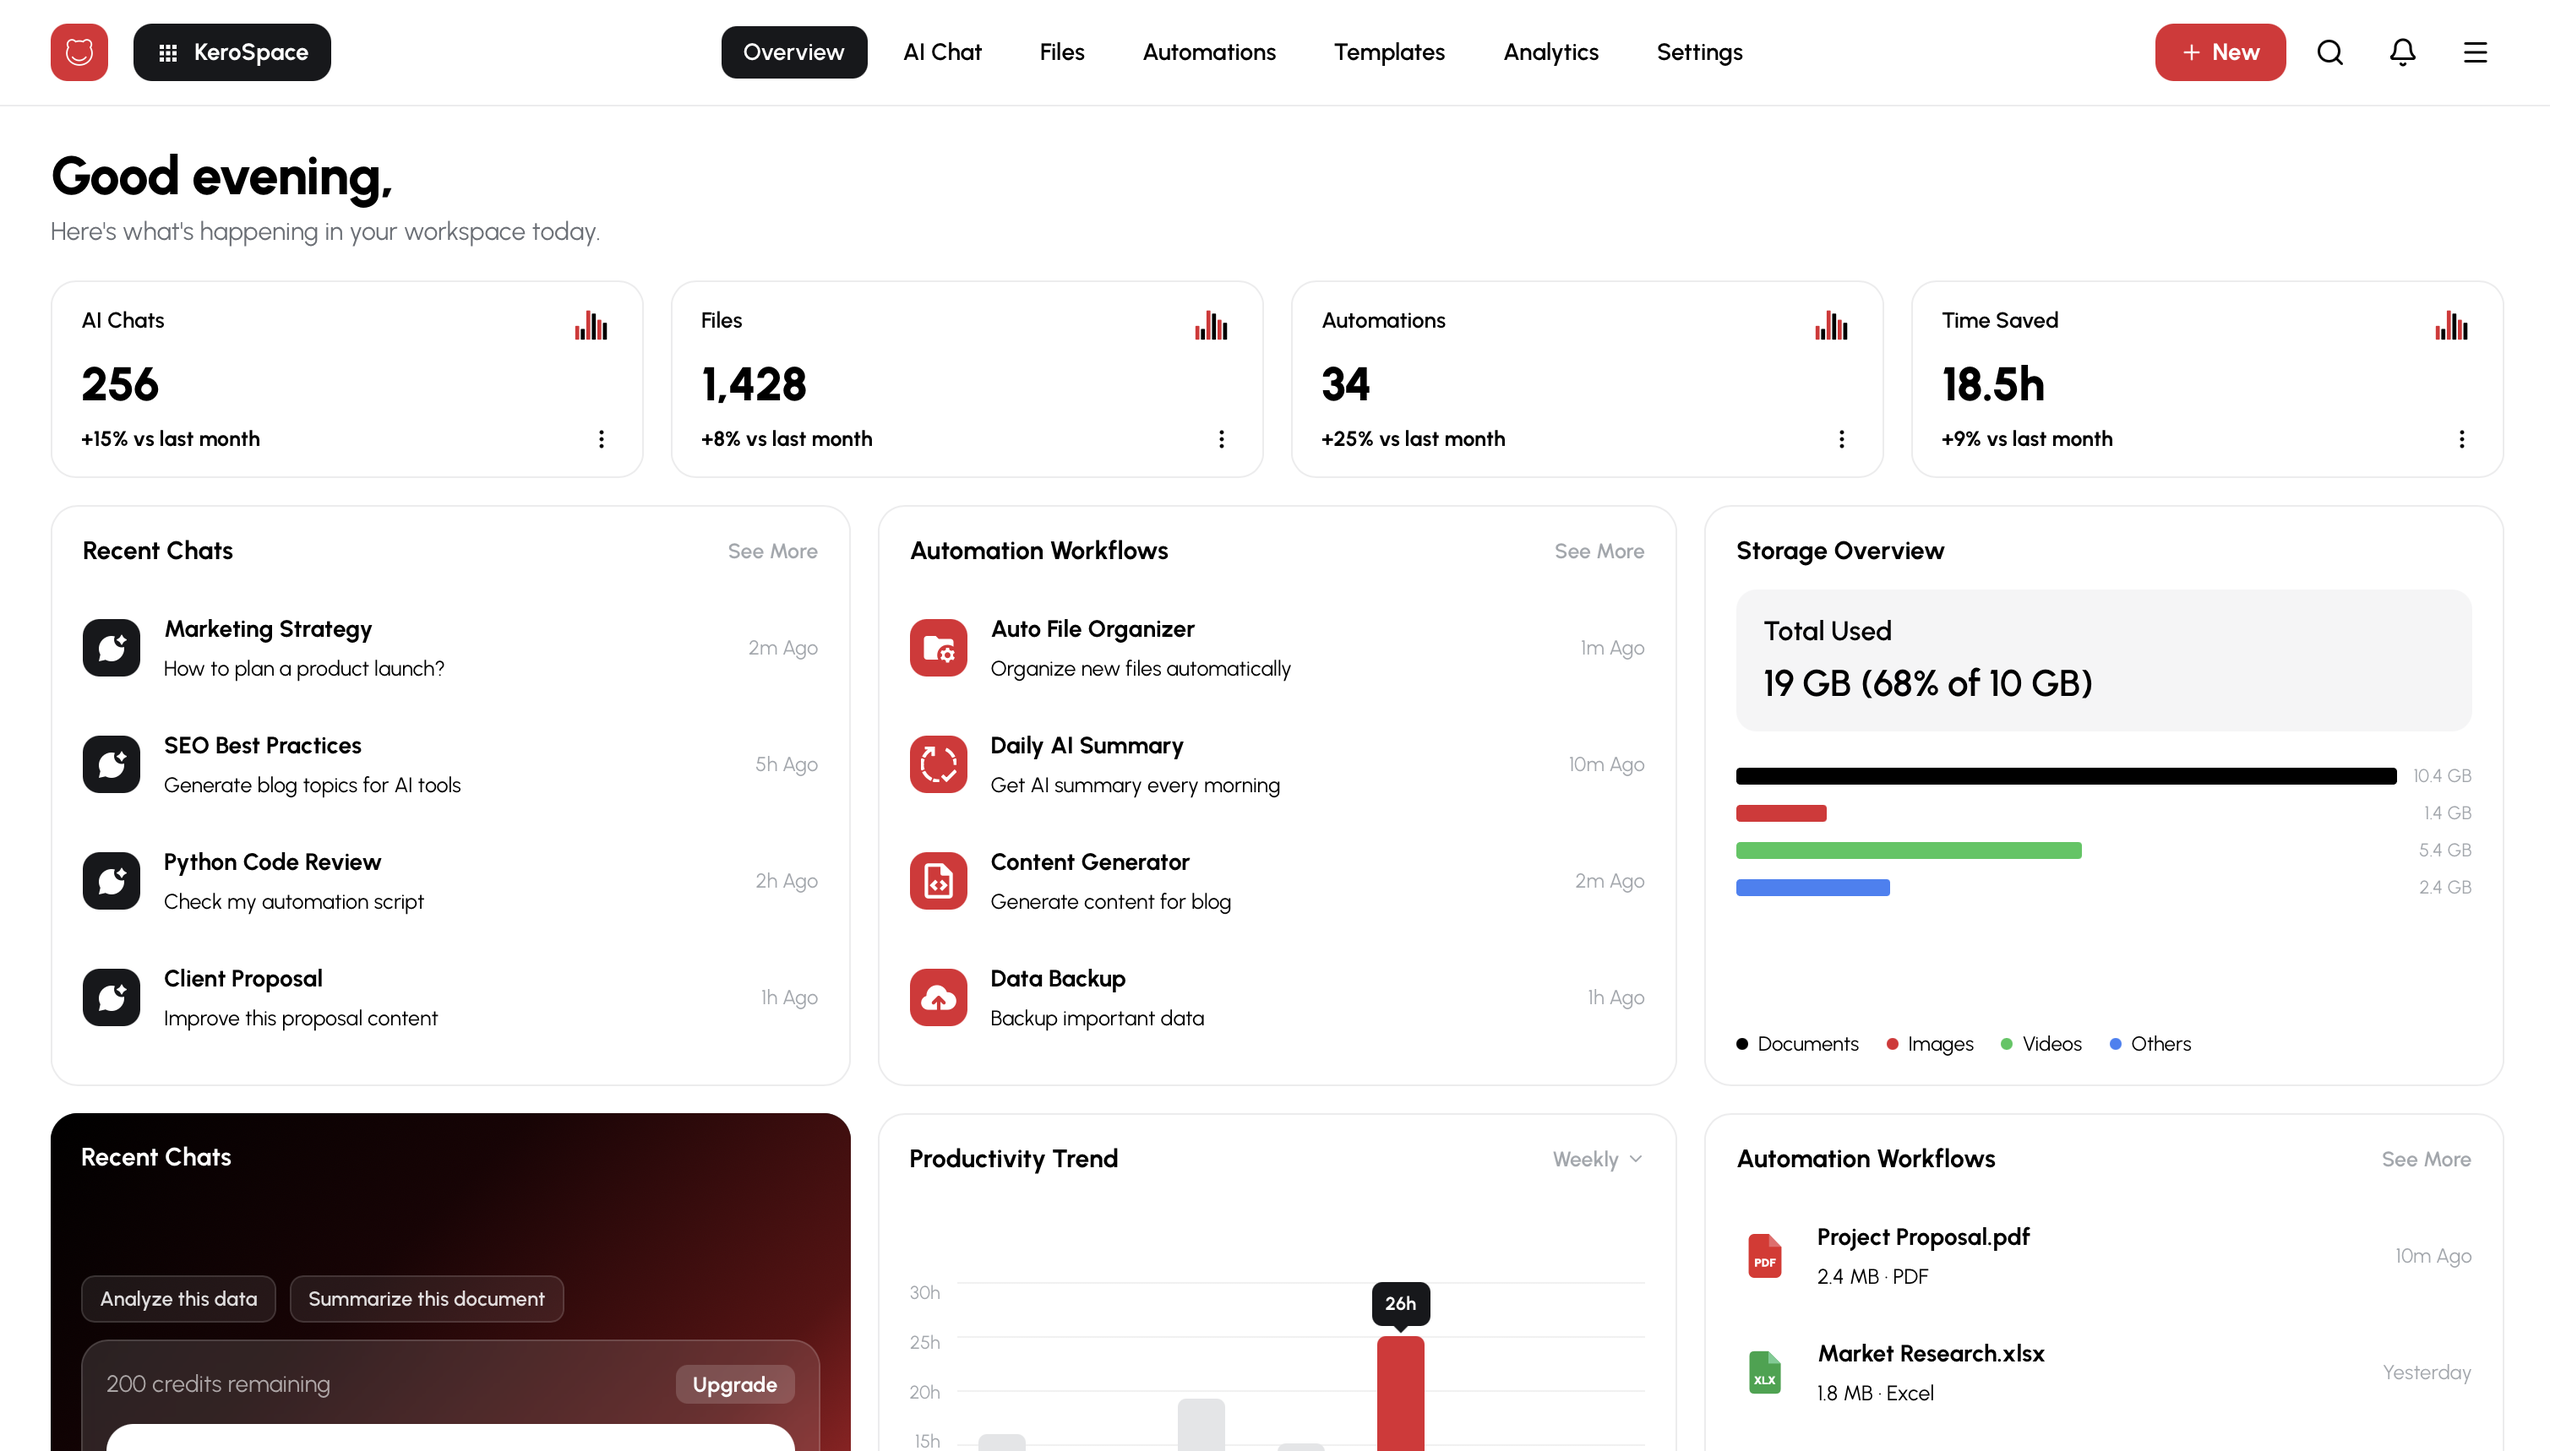
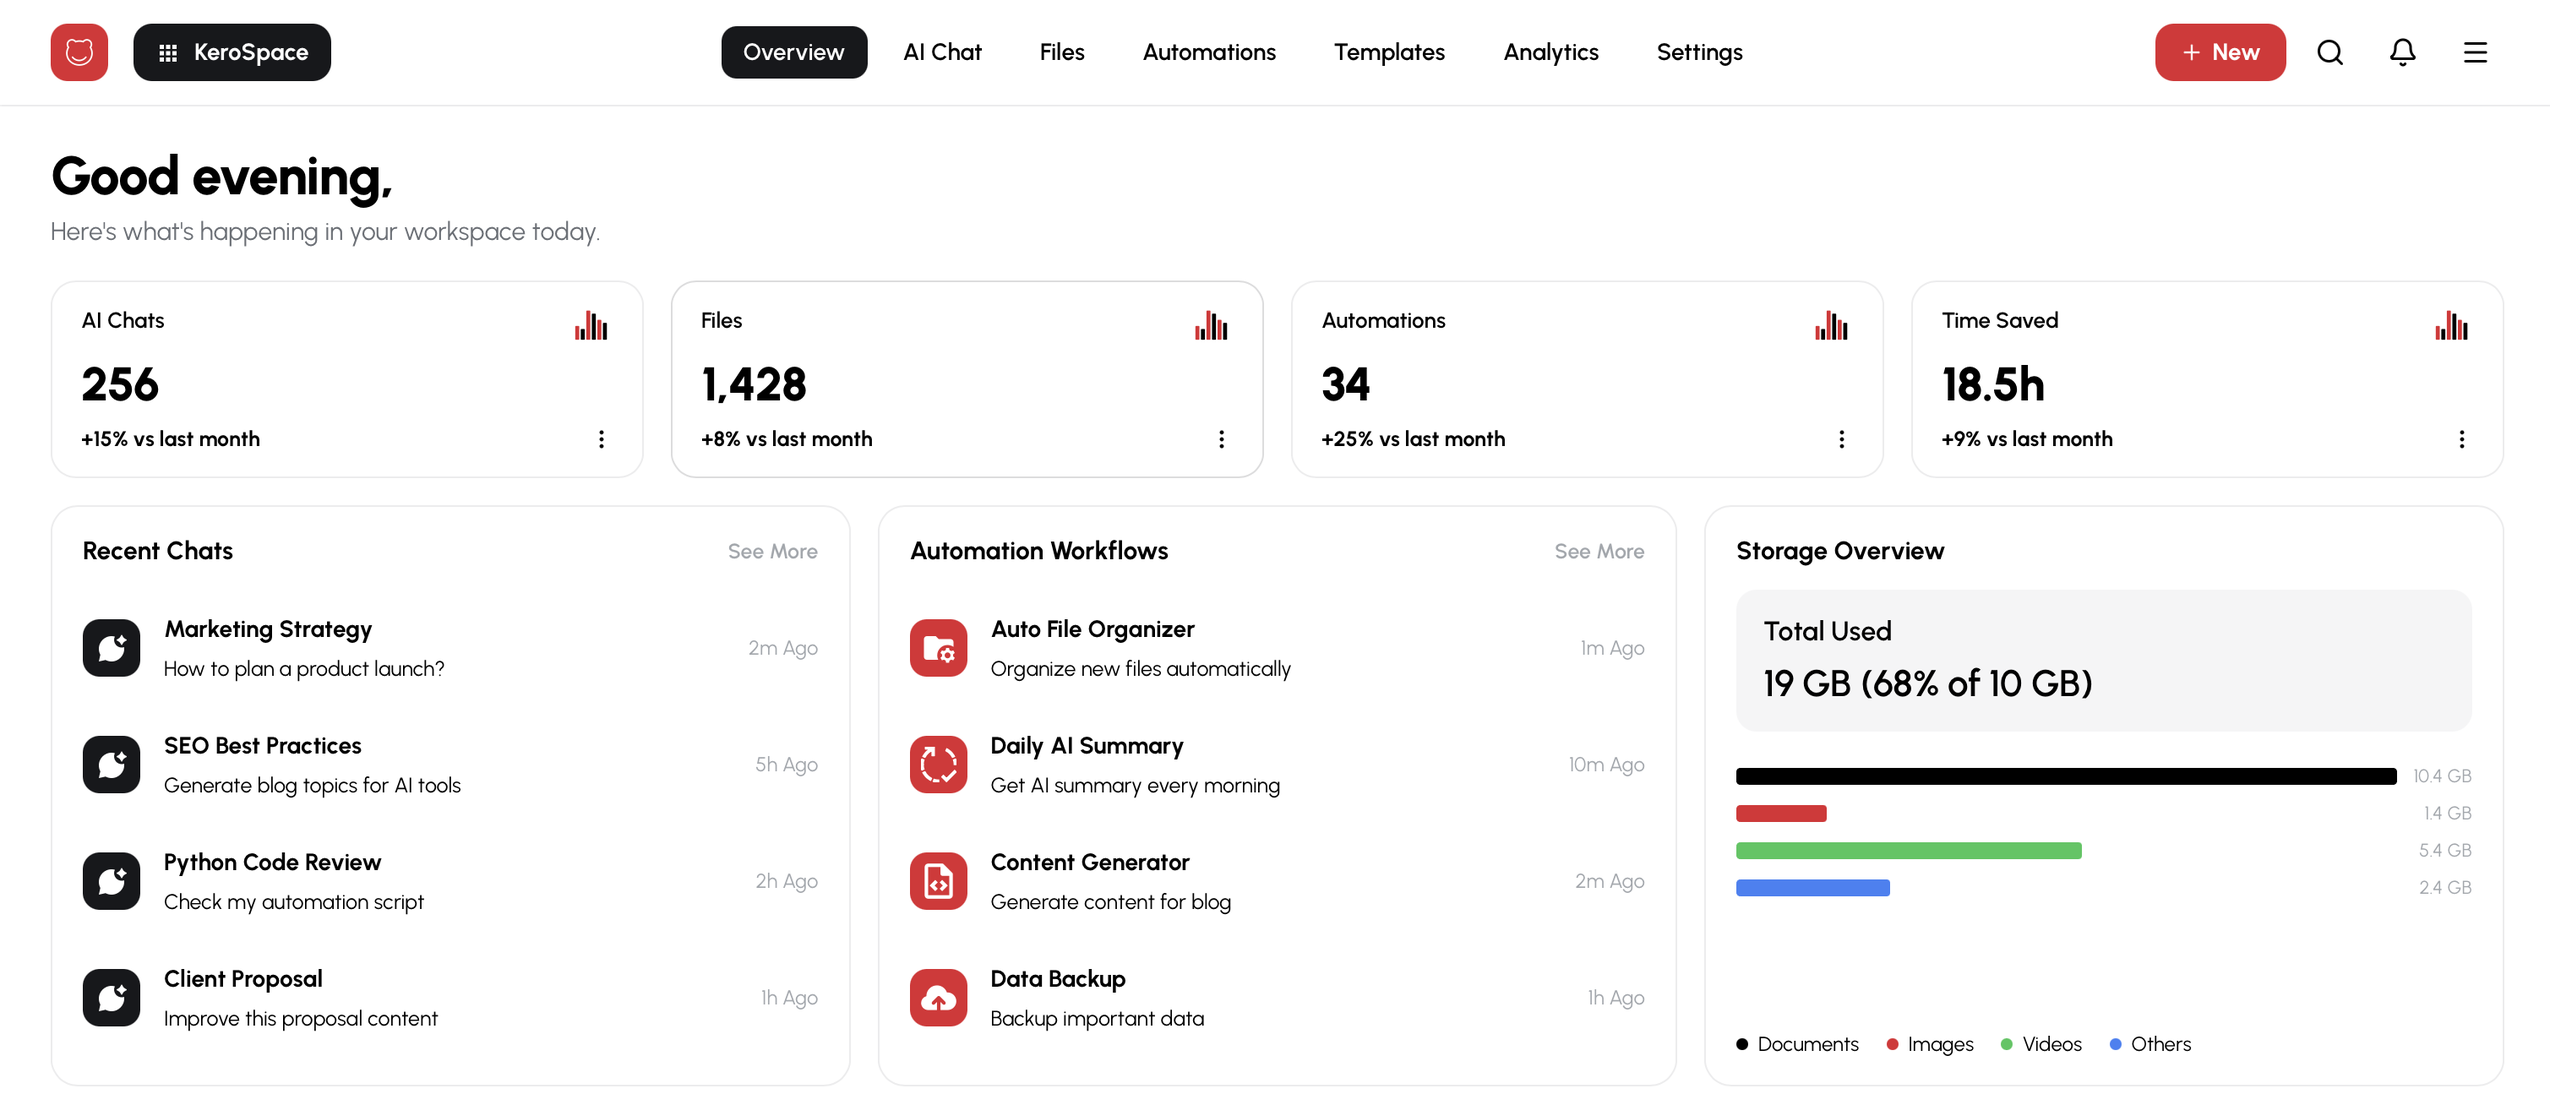
Update social thumbnail (new image + og dimensions)

diff --git a/nuxt.config.ts b/nuxt.config.ts
@@ -30,7 +30,7 @@ export default defineNuxtConfig({
           content: 'https://kerospace.vercel.app/images/thumbnail.png',
         },
         { property: 'og:image:width', content: '3018' },
-        { property: 'og:image:height', content: '1718' },
+        { property: 'og:image:height', content: '1308' },
         { property: 'og:image:alt', content: 'KeroSpace Workspace dashboard' },
 
         // Twitter / X
